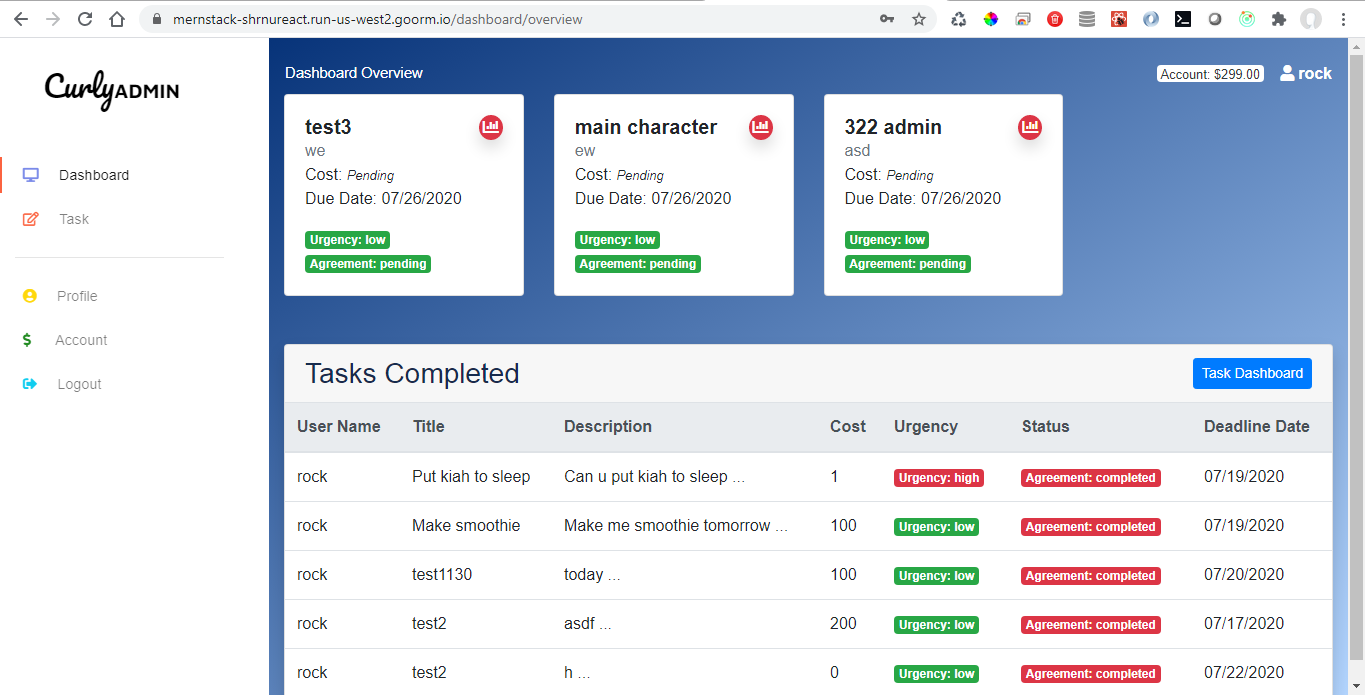
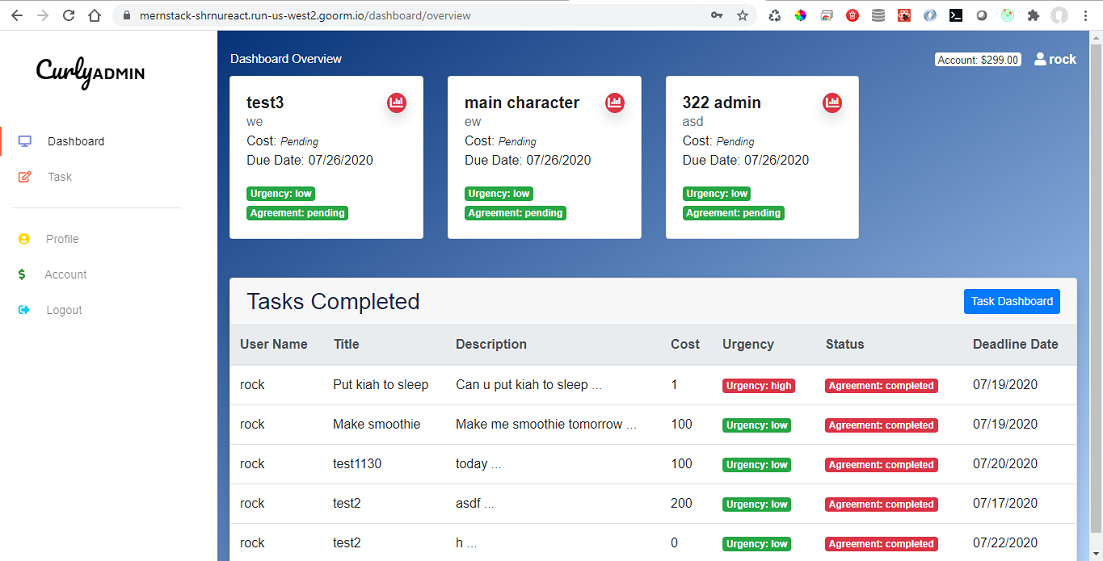
created footer, edited pictures

diff --git a/client/src/components/layout/Projects.js b/client/src/components/layout/Projects.js
@@ -51,7 +51,7 @@ const Projects = () =>{
 					<div className="flip-card-inner">
 						<div className="flip-card-front">
 								<img className="Projects-image" 
-									src={require("../../assets/images/curlyadmin_frontpage.png")} />
+									src={require("../../assets/images/curlyadmin_dashboard.png")} />
 						</div>
 						<div className="d-flex flex-column justify-content-center flip-card-back">
 							<div>
@@ -104,15 +104,15 @@ const Projects = () =>{
 					<div className="flip-card-inner">
 						<div className="flip-card-front">
 								<img className="Projects-image" 
-									src={require("../../assets/images/curlyadmin_frontpage.png")} />
+									src={require("../../assets/images/rockyportfolio_frontpage.png")} />
 						</div>
 						<div className="d-flex flex-column justify-content-center flip-card-back">
 							<div>
-								<h5>CurlyAdmin.com</h5>
+								<h5>RockyCoder.com</h5>
 							</div>
 							<div>
 								<Link class="btn btn-warning" 
-									to={{ pathname: "https://www.curlyadmin.com" }} 
+									to={{ pathname: "https://rockycoder.herokuapp.com/" }} 
 									role="button" 
 									target="_blank"
 								>
@@ -126,15 +126,15 @@ const Projects = () =>{
 					<div className="flip-card-inner">
 						<div className="flip-card-front">
 								<img className="Projects-image" 
-									src={require("../../assets/images/curlyadmin_frontpage.png")} />
+									src={require("../../assets/images/rockyportfolio_contact.png")} />
 						</div>
 						<div className="d-flex flex-column justify-content-center flip-card-back">
 							<div>
-								<h5>CurlyAdmin.com</h5>
+								<h5>RockyCoder.com</h5>
 							</div>
 							<div>
 								<Link class="btn btn-warning" 
-									to={{ pathname: "https://www.curlyadmin.com" }} 
+									to={{ pathname: "https://rockycoder.herokuapp.com/" }} 
 									role="button" 
 									target="_blank"
 								>
@@ -150,12 +150,12 @@ const Projects = () =>{
 				<div className="text-left">
 					<p className="mb-0">
 						<span className="font-weight-bold Projects-tech-title">Technology Used: </span>
-						<span className="font-weight-light Projects-tech-info">Mongo DB, Express, React, Node.js (MERN Full Stack), Authentication Dashboard, CRUD, HTML, CSS, JavaScript 
+						<span className="font-weight-light Projects-tech-info">React, Node.js, HTML, CSS, JavaScript 
 						</span>
 					</p>
 					<p>
 						<span className="font-weight-bold Projects-tech-title">API's: </span>
-						<span className="font-weight-light Projects-tech-info">Sendgrid, Emailjs, Recaptcha, Postman
+						<span className="font-weight-light Projects-tech-info">Emailjs
 						</span>
 					</p>
 				</div>

diff --git a/client/src/components/layout/Footer.js b/client/src/components/layout/Footer.js
@@ -1,0 +1,73 @@
+import React, {useState} from 'react';
+import {NavLink} from 'react-router-dom';
+import { Link } from 'react-scroll';
+import { FontAwesomeIcon } from '@fortawesome/react-fontawesome';
+import { faLinkedin, faGithubAlt } from '@fortawesome/free-brands-svg-icons';
+import { faEnvelope } from '@fortawesome/free-solid-svg-icons';
+import '../../assets/css/Footer.scss';
+
+const Footer = () =>{
+		
+	return(
+		<div className="Footer">
+			<div className="Footer-container">
+				<div className="Footer-logo-rockycoder  d-flex align-items-center mt-5">
+					<div className="Footer-logo-some" >
+						Some
+					</div>
+					<div className="Footer-logo-coder">
+						Coder
+					</div>
+				</div>
+			</div>
+			
+			<div className="Footer-container">
+				<div className="Footer-hr" />
+			</div>
+			
+			<div className="Footer-container mb-3">
+				<div className="Footer-logo">
+					<NavLink
+						className="Footer-logo-buttons"
+						to={{ pathname: 
+							 "https://www.linkedin.com/in/rocky-moreno-23a57a155/" 
+						}}  
+						target="_blank"
+					>
+						<FontAwesomeIcon icon={faLinkedin} />
+					</NavLink>
+				</div>
+				<div className="Footer-logo">
+					<NavLink
+						className="Footer-logo-buttons"
+						to={{ pathname: 
+							 "https://github.com/rockycsumb" 
+						}}  
+						target="_blank"
+					>
+						<FontAwesomeIcon icon={faGithubAlt} />
+					</NavLink>
+				</div>
+				<div className="Footer-logo">
+					<Link
+						activeClass="active" 
+						className="contact Footer-contact" 
+						to="contact" 
+						spy={true} 
+						smooth={true} 
+						duration={1000} 
+					>
+						<FontAwesomeIcon icon={faEnvelope} />
+					</Link>
+				</div>
+			</div>
+			
+			<div className="Footer-container Footer-signature">
+				<p><span>Site by </span> Rocky Moreno</p>
+			</div>
+			
+		</div>
+	)
+}
+
+export default Footer;

diff --git a/client/src/components/layout/Landing.js b/client/src/components/layout/Landing.js
@@ -4,6 +4,7 @@ import Header from './Header';
 import Projects from './Projects';
 import Resume from './Resume';
 import Contact from './Contact';
+import Footer from './Footer';
 import { Element, Link } from 'react-scroll';
 import { FontAwesomeIcon } from '@fortawesome/react-fontawesome';
 import { faArrowUp } from '@fortawesome/free-solid-svg-icons';
@@ -11,15 +12,15 @@ import '../../assets/css/Landing.scss';
 
 const Landing = () =>{
     useEffect(()=>{
-        const toTop = document.querySelector(".Navbar-to-top");
+        // const toTop = document.querySelector(".Navbar-to-top");
     
-        window.addEventListener("scroll", () => {
-        if (window.pageYOffset > 100) {
-            toTop.classList.add("active");
-        } else {
-            toTop.classList.remove("active");
-        }
-        })
+        // window.addEventListener("scroll", () => {
+        // if (window.pageYOffset > 100) {
+        //     toTop.classList.add("active");
+        // } else {
+        //     toTop.classList.remove("active");
+        // }
+        // })
     })
 
     return (
@@ -52,11 +53,10 @@ const Landing = () =>{
             </div>
 			<div className="Landing-footer-div">
                 <Element name="footer" className="element" >
-                    <h1>Footer</h1>
-                    <h1>Footer</h1>
-                    <h1>Footer</h1>
+                    <Footer />
                 </Element>
             </div>
+			{/*
             <Link activeClass="active" className="Navbar-to-top" to="navbar" spy={true} smooth={true} duration={500} >
                 <div>
                     <FontAwesomeIcon icon={faArrowUp} />
@@ -65,6 +65,7 @@ const Landing = () =>{
                     To Top
                 </div>
             </Link>
+			*/}
         </div>
       );
 }

diff --git a/client/src/assets/css/Footer.scss b/client/src/assets/css/Footer.scss
@@ -1,0 +1,84 @@
+@import './MainColors.scss';
+@import './MainFonts.scss';
+
+
+.Footer {
+	min-height: 200px;
+}
+
+.Footer-rockycoder {
+	color: white;
+	margin-top: 2em;
+}
+
+.Footer-container {
+	display: flex;
+	justify-content: center;
+}
+
+.Footer-logo {
+	color: white;
+	font-size: 2em;
+	margin: 0 1em;
+}
+
+.Footer-logo-rockycoder {
+	font-family: $Recursive-main;
+    margin: 0 5em;
+	margin-bottom: 5px;
+}
+
+.Footer-logo-some {
+    font-size: 1em;
+    color: $gray-light;
+    font-weight: bold;
+}
+
+.Footer-logo-coder {
+    font-size: 1em;
+    color: $white-color;
+    font-weight: bold;
+}
+
+.Footer-hr{
+	width: 220px;
+	border-bottom: 2px solid $yellow-color;
+}
+
+.Footer-logo-buttons {
+	color: #fff;
+	opacity: .5;
+}
+
+.Footer-logo-buttons:hover {
+  opacity: 1;
+}
+
+.Footer-logo-buttons:visited {
+  color: #fff;
+}
+
+.Footer-container p {
+	color: white;
+}
+
+.Footer-contact {
+	opacity: .5;
+}
+
+.Footer-contact:hover {
+	opacity: 1;
+	cursor: pointer;
+}
+
+.Footer-signature {
+	font-size: 10px;
+}
+
+.Footer-signature span {
+	color: $yellow-color;
+}
+
+
+
+

diff --git a/client/src/components/layout/Resume.js b/client/src/components/layout/Resume.js
@@ -20,18 +20,16 @@ const Resume = () =>{
 				<div className="Resume-content">
 					<div className="Resume-content-column1">
 						<ul>
-							<li>MERN Stack</li>
+							<li>MERN FullStack</li>
 							<li>JS</li>
 							<li>C++</li>
 							<li>PHP</li>
-							<li>SQL</li>
 						</ul>
 					</div>
 					<hr />
 					
 					<div className="Resume-content-column2">
 						<ul>
-							<li>MERN Stack</li>
 							<li>B.S. Computer Science</li>
 							<li>A.A. Natural Science</li>
 							<li>Location: San Jose</li>

diff --git a/client/src/assets/css/Resume.scss b/client/src/assets/css/Resume.scss
@@ -80,22 +80,32 @@
 	
 	.Resume-content ul {
 		margin: 0 2em;
-		font-size: 3vw;
+		font-size: 2vw;
 	}
 	
 	.Resume-content  {
 		margin: 0 2em;
-		font-size: 3vw;
+		font-size: 2vw;
 	}
 	
 	.Resume-content hr {
 		display: none;
-		
 	}
 	
 	.Resume-content-column2 ul{
 		border-left: 3px $yellow-color solid;
-		
+	}
+}
+
+@media(min-width: 1200px){
+	.Resume-content ul {
+		margin: 0 2em;
+		font-size: 1.25em;
 	}
 	
+	.Resume-content  {
+		margin: 0 2em;
+		font-size: 1.25em;
+	}
 }
+

diff --git a/client/src/components/layout/Header.js b/client/src/components/layout/Header.js
@@ -8,10 +8,10 @@ const Header = () =>{
 			<div className="Header-title">
 				<div className="Header-title-names">
 					<div className="Header-title-name">
-						Some
+						Rocky
 					</div>
 					<div className="Header-title-name">
-						Coding
+						Coder
 					</div>
 				</div>
 				

diff --git a/client/src/components/navbar/NavBar.js b/client/src/components/navbar/NavBar.js
@@ -71,7 +71,7 @@ const NavBar = () =>{
 					</div>
 					<div className="Navbar-logo  d-flex align-items-center">
 						<div className="Navbar-logo-some" >
-							Some
+							Rocky
 						</div>
 						<div className="Navbar-logo-coder">
 							Coder

diff --git a/client/src/assets/css/Landing.scss b/client/src/assets/css/Landing.scss
@@ -31,6 +31,6 @@
 }
 
 .Landing-footer-div {
-	min-height: 30px;
+	min-height: 200px;
 	background: $gray-dark;
 }
